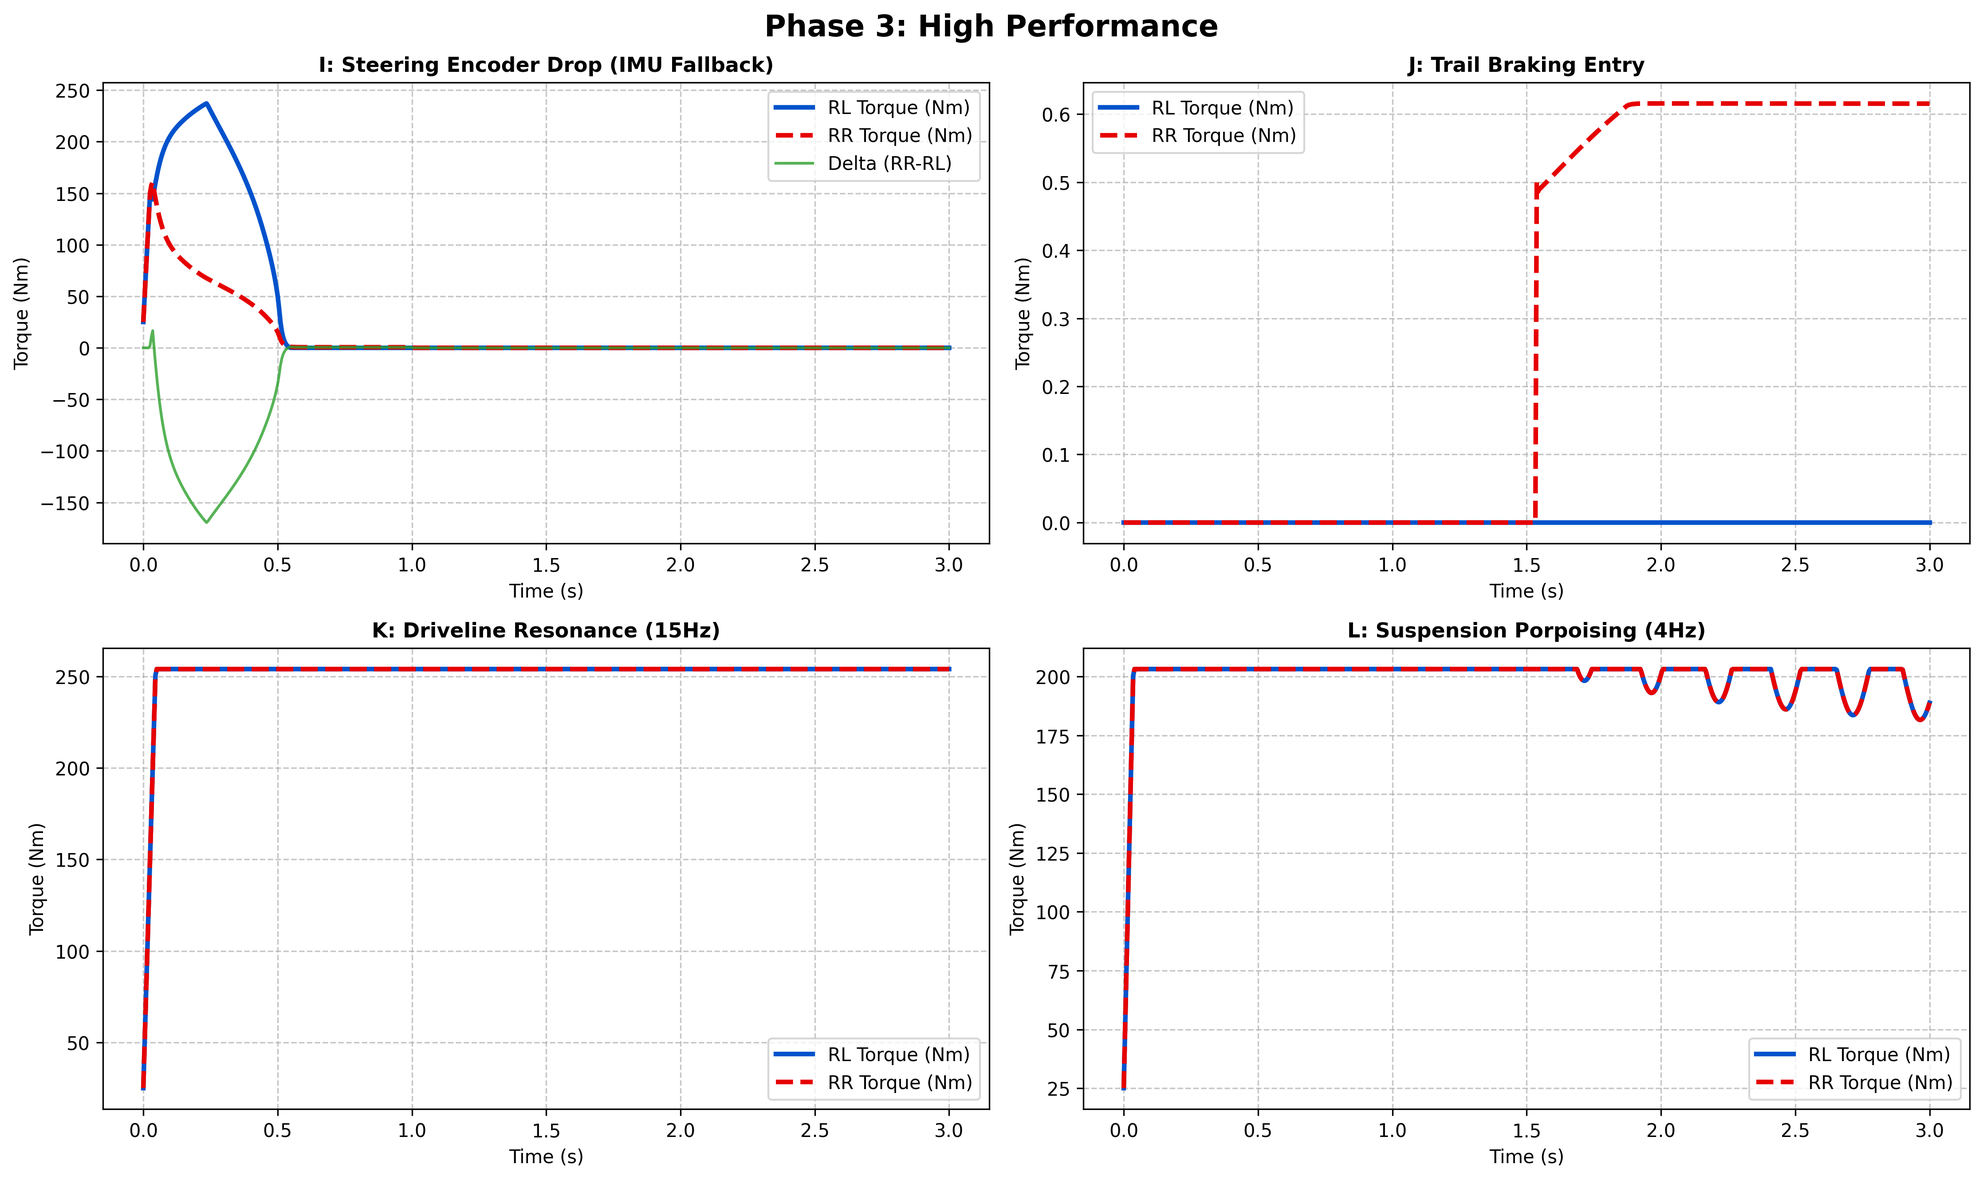
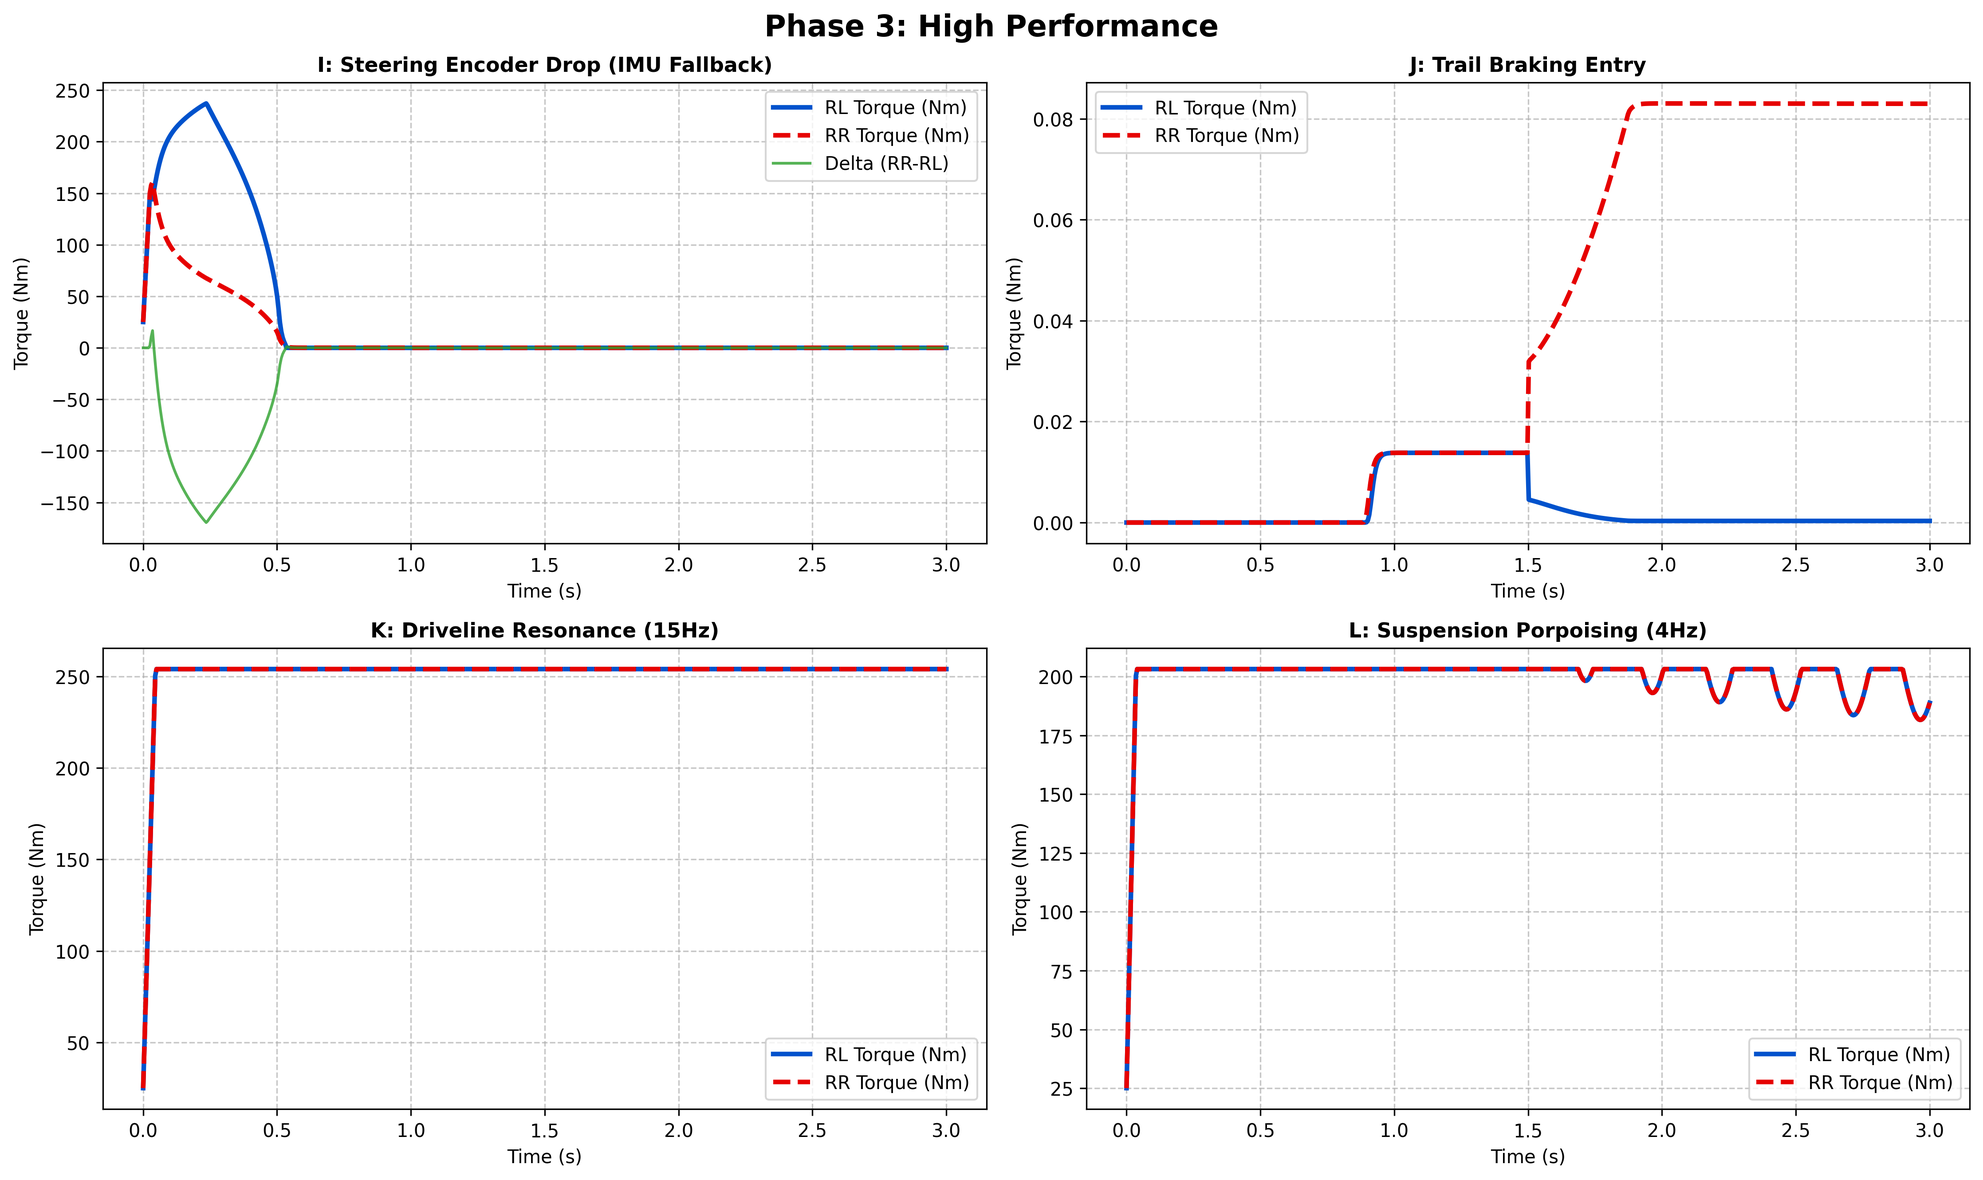
prueba

diff --git a/SOFTWARE/TeR_ECU/Libraries/TRQ_VECTORING/master_sanity_checks.py b/SOFTWARE/TeR_ECU/Libraries/TRQ_VECTORING/master_sanity_checks.py
@@ -50,6 +50,13 @@ class EkfState(ctypes.Structure):
         ("wz_corrected", ctypes.c_float),
     ]
 
+class GPRegenLimits(ctypes.Structure):
+    _fields_ = [
+        ("enable",             ctypes.c_uint8),
+        ("max_total_trq",      ctypes.c_float),
+        ("max_charge_power_w", ctypes.c_float),
+    ]
+
 class TVState(ctypes.Structure):
     _fields_ = [
         ("wz_int",         ctypes.c_float),
@@ -68,6 +75,8 @@ class TVState(ctypes.Structure):
         ("ay_filt",        ctypes.c_float),   # new
         ("t_ub_rl_filt",   ctypes.c_float),   # new
         ("t_ub_rr_filt",   ctypes.c_float),   # new
+        ("t_lb_rl_filt",   ctypes.c_float),   # NEW: filtered regen (negative) bound RL
+        ("t_lb_rr_filt",   ctypes.c_float),   # NEW: filtered regen (negative) bound RR
     ]
 
 # Structural Safety Assertions
@@ -99,6 +108,7 @@ gp_lib.gp_tv_step.argtypes = [
     ctypes.c_float,                     # temp_inv_rr
     ctypes.c_float,                     # vy_gps
     ctypes.c_uint8,                     # gps_valid
+    ctypes.POINTER(GPRegenLimits),      # regen
     ctypes.c_float,                     # dt
     ctypes.POINTER(TVState),            # state
     ctypes.POINTER(ctypes.c_float * 4)  # t_out_c
@@ -142,11 +152,23 @@ class HardwareNonIdealities:
         self.cmd_buffer.append(list(t_cmd_out))
         return self.cmd_buffer.pop(0)
     
-def run_scenario(time_array, input_generator, non_idealities=None):
+def default_regen_limits(enable=1, max_total_trq=400.0, max_charge_power_w=40000.0):
+    """Generous, permissive regen envelope for tests not specifically exercising
+    the regen budget itself. Pass an explicit GPRegenLimits into run_scenario()/
+    run_comparison() to test a tightened budget instead."""
+    rg = GPRegenLimits()
+    rg.enable = enable
+    rg.max_total_trq = max_total_trq
+    rg.max_charge_power_w = max_charge_power_w
+    return rg
+
+def run_scenario(time_array, input_generator, non_idealities=None, regen_limits=None):
     state = TVState()
     gp_lib.gp_tv_init(ctypes.byref(state))
     state.tc.mu_surface[0] = 1.5
     state.tc.mu_surface[1] = 1.5
+
+    rg = regen_limits if regen_limits is not None else default_regen_limits()
     
     dt = time_array[1] - time_array[0] if len(time_array) > 1 else 0.005
     
@@ -164,7 +186,8 @@ def run_scenario(time_array, input_generator, non_idealities=None):
         t_out_c = (ctypes.c_float * 4)()
         
         gp_lib.gp_tv_step(fx, delta, vx, vy, wz, ay, ax, 
-                          omega_c, brake, 60.0, 60.0, 0.0, 0, dt, ctypes.byref(state), t_out_c)
+                          omega_c, brake, 60.0, 60.0, 0.0, 0, ctypes.byref(rg),
+                          dt, ctypes.byref(state), t_out_c)
         
         t_out_processed = [t_out_c[0], t_out_c[1], t_out_c[2], t_out_c[3]]
         if non_idealities is not None:
@@ -301,7 +324,21 @@ def scenario_anticipatory_tc(t):
     omega_rr = vx/0.2032 + ((t - 1.0) * 800.0) if 1.0 < t < 1.1 else vx/0.2032
     return 2000.0, 0.0, vx, 0.0, 0.0, 0.0, 5.0, [0, 0, omega_rl, omega_rr], 0.0
 
-
+def scenario_regen_tv_at_limit(t):
+    """29: Regen-TV At The Limit. Heavy trail-braking regen INTO a hard corner,
+    sized so the friction-derived split exceeds a TIGHT total regen budget —
+    exercises the proportional total-budget rescale (not independent
+    per-wheel clamping) that must preserve the asymmetric split."""
+    vx = 22.0
+    fx = -2600.0
+    delta = 0.55
+    wz = 1.1
+    ay = vx * wz
+    ax = fx / 250.0
+    w_rear = vx / 0.2032
+    omega = [0.0, 0.0, w_rear, w_rear]
+    brake = 0.0
+    return fx, delta, vx, 0.0, wz, ay, ax, omega, brake
 # =====================================================================
 # 4. MOTOR DE RENDERIZADO UNIFICADO
 # =====================================================================
@@ -474,13 +511,12 @@ class LegacyTV:
         nom = (fx_driver * 0.2032) / 2.0
         return nom - (d_torque / 2.0), nom + (d_torque / 2.0)
 
-def run_comparison(time_array, input_generator):
+def run_comparison(time_array, input_generator, regen_limits=None):
     state_new = TVState()
-    # ELIMINAR: ctypes.memset(ctypes.byref(state_new), 0, ctypes.sizeof(TVState))
-    gp_lib.gp_tv_init(ctypes.byref(state_new)) # <--- AÑADIDO: Llama a C directamente
+    gp_lib.gp_tv_init(ctypes.byref(state_new))
     state_new.tc.mu_surface[0] = 1.5
     state_new.tc.mu_surface[1] = 1.5
-    # ...
+    rg = regen_limits if regen_limits is not None else default_regen_limits()
     legacy_tv = LegacyTV()
     
     log = {'new_rl': [], 'new_rr': [], 'new_diff': [], 
@@ -492,7 +528,8 @@ def run_comparison(time_array, input_generator):
         # Sistema Nuevo
         omega_c = (ctypes.c_float * 4)(*omega)
         t_out_c = (ctypes.c_float * 4)()
-        gp_lib.gp_tv_step(fx, delta, vx, vy, wz, ay, ax, omega_c, brake, 60.0, 60.0, 0.0, 0, 0.005, ctypes.byref(state_new), t_out_c)
+        gp_lib.gp_tv_step(fx, delta, vx, vy, wz, ay, ax, omega_c, brake, 60.0, 60.0, 0.0, 0,
+                           ctypes.byref(rg), 0.005, ctypes.byref(state_new), t_out_c)
         
         # Sistema Antiguo
         old_rl, old_rr = legacy_tv.step(fx, delta, vx, wz, 0.005)
@@ -836,6 +873,38 @@ if __name__ == "__main__":
                     ['M: Launch Control (Pre-Tension)', 'N: Regenerative Torque Vectoring', 'O: Oversteer Rescue (Counter-Steer)', 'P: Anticipatory TC (Derivative Cut)'],
                     'sanity_phase4_advanced.png', 'Phase 4: Advanced Dynamics', time_steps)
 
+    # Explicit regression guard: Test N must show a genuine TV split under
+    # regen, not a flat/symmetric line (this was the original bug).
+    _, _, diff_N, _, _, _ = run_scenario(time_steps, scenario_regen_tv_entry)
+    assert np.max(np.abs(diff_N)) > 5.0, (
+        f"Regen-TV split collapsed to near-zero (max |diff|={np.max(np.abs(diff_N)):.2f} Nm) — "
+        f"the per-wheel regen bound is not shaping asymmetrically."
+    )
+    print(f"✅ Test N regen-TV split check: max |RR-RL| = {np.max(np.abs(diff_N)):.1f} Nm")
+
+    # New: regen-TV under a deliberately tight total budget — certifies the
+    # budget is enforced by proportional rescale (ratio preserved), not by
+    # independent per-wheel clamping (which would flatten the split).
+    tight_rg = default_regen_limits(enable=1, max_total_trq=60.0, max_charge_power_w=40000.0)
+    loose_rg = default_regen_limits(enable=1, max_total_trq=400.0, max_charge_power_w=40000.0)
+
+    rl_tight, rr_tight, diff_tight, *_ = run_scenario(time_steps, scenario_regen_tv_at_limit, regen_limits=tight_rg)
+    rl_loose, rr_loose, diff_loose, *_ = run_scenario(time_steps, scenario_regen_tv_at_limit, regen_limits=loose_rg)
+
+    budget_ok = np.all((np.abs(rl_tight) + np.abs(rr_tight)) <= 60.0 + 1e-1)
+    mask = np.abs(diff_loose) > 5.0
+    ratio_tight = np.abs(diff_tight[mask]) / (np.abs(rl_tight[mask]) + np.abs(rr_tight[mask]) + 1e-6)
+    ratio_loose = np.abs(diff_loose[mask]) / (np.abs(rl_loose[mask]) + np.abs(rr_loose[mask]) + 1e-6)
+    shape_preserved = np.mean(np.abs(ratio_tight - ratio_loose)) < 0.15
+
+    status = "✅ PASS" if (budget_ok and shape_preserved) else "❌ FAIL"
+    print(f"{status} | 29: Regen-TV At The Limit | Budget respected: {budget_ok} | Shape preserved: {shape_preserved}")
+    assert budget_ok, "Total regen budget exceeded — scale_neg_trq / regen bound rescale is broken."
+    assert shape_preserved, "Regen split collapsed toward symmetric under a tight budget — per-wheel clamping regression."
+
+    # ------------------ SECTION B: DOGFIGHT COMPARISONS ------------------
+    print("\nStarting Dogfight Comparisons (PD vs. AL-QP)...")
+
     # ------------------ SECTION B: DOGFIGHT COMPARISONS ------------------
     print("\nStarting Dogfight Comparisons (PD vs. AL-QP)...")
 
@@ -905,6 +974,7 @@ if __name__ == "__main__":
         "23: G-Circle Spiral Mapping (Combined Slip)": scenario_friction_circle_mapping,
         "25: Mid-Corner Curb Strike (Transient TC)": scenario_mid_corner_curb,
         "28: Limit Slalom (Dynamic Degradation)": scenario_limit_slalom,
+        "29: Regen-TV At The Limit": scenario_regen_tv_at_limit,
     }
     run_monte_carlo_suite(mc_scenarios, num_trials=30, delay_ticks=1)
 

diff --git a/SOFTWARE/TeR_ECU/Libraries/TRQ_VECTORING/src/gp_torque_vectoring.c b/SOFTWARE/TeR_ECU/Libraries/TRQ_VECTORING/src/gp_torque_vectoring.c
@@ -59,6 +59,11 @@ void gp_tv_init(tv_state_t* state) {
     state->t_ub_rl_filt = 0.0f;
     state->t_ub_rr_filt = 0.0f;
     
+    state->t_ub_rl_filt = 0.0f;
+    state->t_ub_rr_filt = 0.0f;
+    state->t_lb_rl_filt = 0.0f;
+    state->t_lb_rr_filt = 0.0f;
+
     float h = GP_W_REG + GP_W_SMOOTH;
     float a_sq = 2.0f / (GP_R_WHEEL * GP_R_WHEEL);
     state->alpha_qp = 1.0f / (h + GP_RHO_AL * a_sq);
@@ -72,8 +77,12 @@ void gp_tv_step(
     float fx_driver, float delta, float vx, float vy, float wz, 
     float ay, float ax, const float omega[4], float brake_norm, 
     float temp_inv_rl, float temp_inv_rr, float vy_gps, uint8_t gps_valid,
+    const gp_regen_limits_t* regen,
     float dt, tv_state_t* state, float t_cmd_out[4]
 ) {
+    gp_regen_limits_t regen_default = {1, 9999.0f, 999999.0f};
+    const gp_regen_limits_t* rg = regen ? regen : &regen_default;
+
 #if defined(__arm__) || defined(__ARM_ARCH)
     dwt_init_if_needed();
     uint32_t start_cycles = DWT->CYCCNT;
@@ -86,6 +95,7 @@ void gp_tv_step(
         state->tc.pi_integral[GP_RL] = 0.0f; state->tc.pi_integral[GP_RR] = 0.0f;
         state->t_out_prev[GP_RL] = 15.0f; state->t_out_prev[GP_RR] = 15.0f;
         state->t_qp_prev[GP_RL] = 15.0f; state->t_qp_prev[GP_RR] = 15.0f;
+        state->t_lb_rl_filt = 0.0f; state->t_lb_rr_filt = 0.0f;
 
 #if defined(__arm__) || defined(__ARM_ARCH)
         uint32_t end_cycles = DWT->CYCCNT;
@@ -168,8 +178,7 @@ void gp_tv_step(
     float fb_mz = kp * wz_err + ki * state->wz_int + beta_term;
     float mz_req = GP_CLAMP((ff_mz + fb_mz) * os_gate * counter_steer_factor, -GP_TV_MAX_MZ, GP_TV_MAX_MZ);
     
-    // FL = 0.0, FR = 0.0 (Un-driven front wheels), RL = -200.0 Nm, RR = -200.0 Nm (Regen bounds)
-    float t_lb[4] = {0.0f, 0.0f, -200.0f, -200.0f};
+    float t_lb[4] = {0.0f, 0.0f, 0.0f, 0.0f};
     float t_ub_friction[4];
     float t_ub_power[4];
     
@@ -178,7 +187,7 @@ void gp_tv_step(
     gp_friction_ellipse_t_ub(fz_est, fy_est, mu_avg, t_ub_friction);
     gp_power_limited_t_ub(omega, t_ub_power);
     
-    // Derating Térmico
+    // Derating Térmico (applies equally to drive AND regen — same silicon, same heat)
     float temp_limit = 75.0f;
     float derate_rl = 1.0f - gp_sigmoid((temp_inv_rl - temp_limit) * 0.5f);
     float derate_rr = 1.0f - gp_sigmoid((temp_inv_rr - temp_limit) * 0.5f);
@@ -196,6 +205,48 @@ void gp_tv_step(
     t_ub[GP_FR] = 0.0f;
     t_ub[GP_RL] = GP_MIN(state->t_ub_rl_filt, t_ub_power[GP_RL]);
     t_ub[GP_RR] = GP_MIN(state->t_ub_rr_filt, t_ub_power[GP_RR]);
+
+    // ── Regen (negative-torque) bound: mirror image of the drive-side logic ──
+    // Kamm's circle is sign-agnostic, so t_ub_friction (already computed
+    // above) doubles as the regen magnitude ceiling. Charge-power/thermal
+    // derating is regen's analogue of t_ub_power. Both are EMA-filtered at
+    // the SAME time constant as the drive bound so we don't introduce a
+    // differently-tuned, chatter-prone edge on the negative side.
+    if (rg->enable) {
+        float t_lb_power[4];
+        gp_power_limited_t_lb(omega, rg->max_charge_power_w, t_lb_power);
+        t_lb_power[GP_RL] *= derate_rl;
+        t_lb_power[GP_RR] *= derate_rr;
+
+        state->t_lb_rl_filt += alpha_ub * (t_ub_friction[GP_RL] - state->t_lb_rl_filt);
+        state->t_lb_rr_filt += alpha_ub * (t_ub_friction[GP_RR] - state->t_lb_rr_filt);
+
+        float lb_mag_rl = GP_MIN(state->t_lb_rl_filt, t_lb_power[GP_RL]);
+        float lb_mag_rr = GP_MIN(state->t_lb_rr_filt, t_lb_power[GP_RR]);
+
+        // Enforce the TOTAL regen budget (e.g. accumulator charge-current
+        // ceiling) by scaling BOTH wheels proportionally — never by clamping
+        // one wheel independently, which would destroy exactly the
+        // asymmetric split torque vectoring exists to create.
+        float mag_sum = lb_mag_rl + lb_mag_rr;
+        if (mag_sum > rg->max_total_trq && mag_sum > 1e-3f) {
+            float scale = rg->max_total_trq / mag_sum;
+            lb_mag_rl *= scale;
+            lb_mag_rr *= scale;
+        }
+
+        t_lb[GP_RL] = -lb_mag_rl;
+        t_lb[GP_RR] = -lb_mag_rr;
+    } else {
+        // Regen not currently allowed (steering off-center, cell V/T out of
+        // range, accumulator current maxed, etc.). Collapse to zero AND
+        // reset the filters so re-engagement ramps in cleanly instead of
+        // jumping from a stale value.
+        state->t_lb_rl_filt = 0.0f;
+        state->t_lb_rr_filt = 0.0f;
+        t_lb[GP_RL] = 0.0f;
+        t_lb[GP_RR] = 0.0f;
+    }
 
     // Escudo de Fricción
     float max_sum = t_ub[GP_RL] + t_ub[GP_RR];

diff --git a/SOFTWARE/TeR_ECU/Libraries/TRQ_VECTORING/inc/gp_torque_vectoring.h b/SOFTWARE/TeR_ECU/Libraries/TRQ_VECTORING/inc/gp_torque_vectoring.h
@@ -30,6 +30,19 @@ extern volatile uint32_t g_tv_exec_cycles;
 extern volatile float g_tv_exec_us;
 #endif
 
+// Regen authority, rebuilt every 5 ms tick by the caller (gp_interface.c).
+// `enable` mirrors the existing regen_allowed() safety gate (steering
+// deadzone, cell V/T, accumulator current) — the solver never re-implements
+// that logic. `max_total_trq` mirrors TeR.config.regen_max_trq (Nm,
+// magnitude, BOTH wheels combined). `max_charge_power_w` is the electrical
+// charge-power ceiling derived from TeR.config.regen_max_current, shaping
+// the per-wheel bound the same way GP_P_MAX_WHL shapes the drive-side bound.
+typedef struct {
+    uint8_t enable;
+    float   max_total_trq;
+    float   max_charge_power_w;
+} gp_regen_limits_t;
+
 typedef struct {
     float wz_int;
     float delta_prev;
@@ -49,6 +62,8 @@ typedef struct {
     float ay_filt;
     float t_ub_rl_filt;
     float t_ub_rr_filt;
+    float t_lb_rl_filt;   // NEW: filtered per-wheel regen (negative-torque) bound
+    float t_lb_rr_filt;   // NEW
 } tv_state_t;
 
 void gp_tv_init(tv_state_t* state);
@@ -57,6 +72,7 @@ void gp_tv_step(
     float fx_driver, float delta, float vx, float vy, float wz, 
     float ay, float ax, const float omega[4], float brake_norm, 
     float temp_inv_rl, float temp_inv_rr, float vy_gps, uint8_t gps_valid,
+    const gp_regen_limits_t* regen,
     float dt, tv_state_t* state, float t_cmd_out[4]
 );
 

diff --git a/SOFTWARE/TeR_ECU/Libraries/TRQ_VECTORING/src/gp_interface.c b/SOFTWARE/TeR_ECU/Libraries/TRQ_VECTORING/src/gp_interface.c
@@ -10,6 +10,8 @@
 #include "TeR_INERTIAL.h" 
 #include "TeR_CAN.h"      
 #include "stm32f4xx_hal.h"
+#include "TeR_CONSTANTS.h"    // ELEC2MECH_EFF
+#include "TeR_TRQMANAGER.h"   // regen_allowed()
 
 #define GP_DEG2RAD  0.0174532925f
 #define GP_KMH2MS   0.2777777778f
@@ -85,9 +87,19 @@ static inline void gp_execute_step_and_transmit(float fx_driver, trqMap_t *out_m
 
     // 4. EXECUTE CORE MATHEMATICAL TV/TC STEP
     float t_cmd_out[4] = {0.0f};
+    // 3.5 REGEN AUTHORITY — reuse the single safety-gate source of truth
+    // (steering deadzone, cell V/T, accumulator current) and translate the
+    // configurable regen current ceiling into an electrical charge-power
+    // budget for the TV solver's per-wheel regen shaping.
+    gp_regen_limits_t regen_limits;
+    regen_limits.enable = regen_allowed();
+    regen_limits.max_total_trq = (float)TeR.config.regen_max_trq;
+    regen_limits.max_charge_power_w =
+        (float)TeR.config.regen_max_current * GP_NOMINAL_PACK_VOLTAGE_V / ELEC2MECH_EFF;
     gp_tv_step(fx_driver, delta_rueda, vx, vy, wz, ay, ax, 
                omega, brake_norm, temp_inv_rl, temp_inv_rr, 
-               vy_gps, gps_valid, GP_LOOPTIME, &gp_state, t_cmd_out);
+               vy_gps, gps_valid, &regen_limits,
+               GP_LOOPTIME, &gp_state, t_cmd_out);
 
     // Map outputs to driver pipeline map
     out_map->rLeft  = (trq_t)t_cmd_out[GP_RL];

diff --git a/SOFTWARE/TeR_ECU/Libraries/TRQ_VECTORING/tests/test_closed_loop_endurance.py b/SOFTWARE/TeR_ECU/Libraries/TRQ_VECTORING/tests/test_closed_loop_endurance.py
@@ -10,6 +10,13 @@ gp = ctypes.CDLL(LIB_PATH)
 class TVStateBuffer(ctypes.Structure):
     _fields_ = [("raw_bytes", ctypes.c_uint8 * 4096)]
 
+class GPRegenLimits(ctypes.Structure):
+    _fields_ = [
+        ("enable",             ctypes.c_uint8),
+        ("max_total_trq",      ctypes.c_float),
+        ("max_charge_power_w", ctypes.c_float),
+    ]
+
 gp.gp_tv_init.argtypes = [ctypes.POINTER(TVStateBuffer)]
 
 def step_3dof_vehicle_physics(vx, vy, wz, t_rl, t_rr, delta, dt):
@@ -64,6 +71,7 @@ def test_20min_closed_loop_endurance():
 
     t_out = (ctypes.c_float * 4)()
     omega = (ctypes.c_float * 4)()
+    regen_limits = GPRegenLimits(1, 400.0, 40000.0)  # permissive — this test targets numerical stability, not budget enforcement
 
     for step_i in range(total_steps):
         t = step_i * dt
@@ -91,6 +99,7 @@ def test_20min_closed_loop_endurance():
             ctypes.c_float(50.0),           # temp RR
             ctypes.c_float(0.0),            # vy_gps
             ctypes.c_uint8(0),              # gps_valid
+            ctypes.byref(regen_limits),
             ctypes.c_float(dt),
             ctypes.byref(state_buf),
             t_out

diff --git a/SOFTWARE/TeR_ECU/Libraries/TRQ_VECTORING/inc/gp_params.h b/SOFTWARE/TeR_ECU/Libraries/TRQ_VECTORING/inc/gp_params.h
@@ -27,4 +27,12 @@
 #define GP_TC_KP      25.271f  // Traction control proportional gain
 #define GP_TC_KI      12.0f    // Traction control integral gain
 
+// ── Regen / Torque-Vectoring-under-braking ──────────────────────────
+// Nominal accumulator pack voltage used ONLY to convert the configurable
+// regen current ceiling (TeR.config.regen_max_current, in Amps) into an
+// electrical charge-power ceiling for shaping the per-wheel regen bound.
+// TODO(team): replace with a live AMS pack-voltage decode once the exact
+// accessor is confirmed in ams.dbc. A fixed nominal is a safe, conservative
+// placeholder as long as it's not set above the pack's real minimum voltage.
+#define GP_NOMINAL_PACK_VOLTAGE_V   400.0f
 #endif // GP_PARAMS_H

diff --git a/SOFTWARE/TeR_ECU/Libraries/TRQ_VECTORING/src/gp_vehicle_model.c b/SOFTWARE/TeR_ECU/Libraries/TRQ_VECTORING/src/gp_vehicle_model.c
@@ -75,6 +75,16 @@ void gp_power_limited_t_ub(const float omega_wheel[4], float t_ub_out[4]) {
     }
 }
 
+void gp_power_limited_t_lb(const float omega_wheel[4], float p_max_charge_w, float t_lb_out[4]) {
+    for (int i = 0; i < 4; i++) {
+        // fabsf: unlike the drive-side function, regen must also be
+        // power-bounded correctly during rollback/near-zero-speed edge cases.
+        float omega_safe = gp_softplus(fabsf(omega_wheel[i]) * GP_R_WHEEL);
+        float t_power = p_max_charge_w / (omega_safe + 1e-3f);
+        t_lb_out[i] = GP_CLAMP(t_power, 0.0f, 2000.0f); // magnitude; caller applies the sign
+    }
+}
+
 float gp_adaptive_k_us(const float fz[4]) {
     float fz_front_mean = 0.5f * (fz[GP_FL] + fz[GP_FR]);
     float fz_rear_mean  = 0.5f * (fz[GP_RL] + fz[GP_RR]);

diff --git a/SOFTWARE/TeR_ECU/Libraries/TRQ_VECTORING/inc/gp_vehicle_model.h b/SOFTWARE/TeR_ECU/Libraries/TRQ_VECTORING/inc/gp_vehicle_model.h
@@ -42,6 +42,7 @@ void gp_estimate_fz(float vx, float ax, float ay, float fz_out[4]);
 void gp_estimate_fy(float vx, float vy, float wz, float delta, const float fz[4], float fy_out[4]);
 void gp_friction_ellipse_t_ub(const float fz[4], const float fy_est[4], float mu_est, float t_ub_out[4]);
 void gp_power_limited_t_ub(const float omega_wheel[4], float t_ub_out[4]);
+void gp_power_limited_t_lb(const float omega_wheel[4], float p_max_charge_w, float t_lb_out[4]);
 float gp_adaptive_k_us(const float fz[4]);
 void gp_moment_arms(float arms_out[4]);
 
